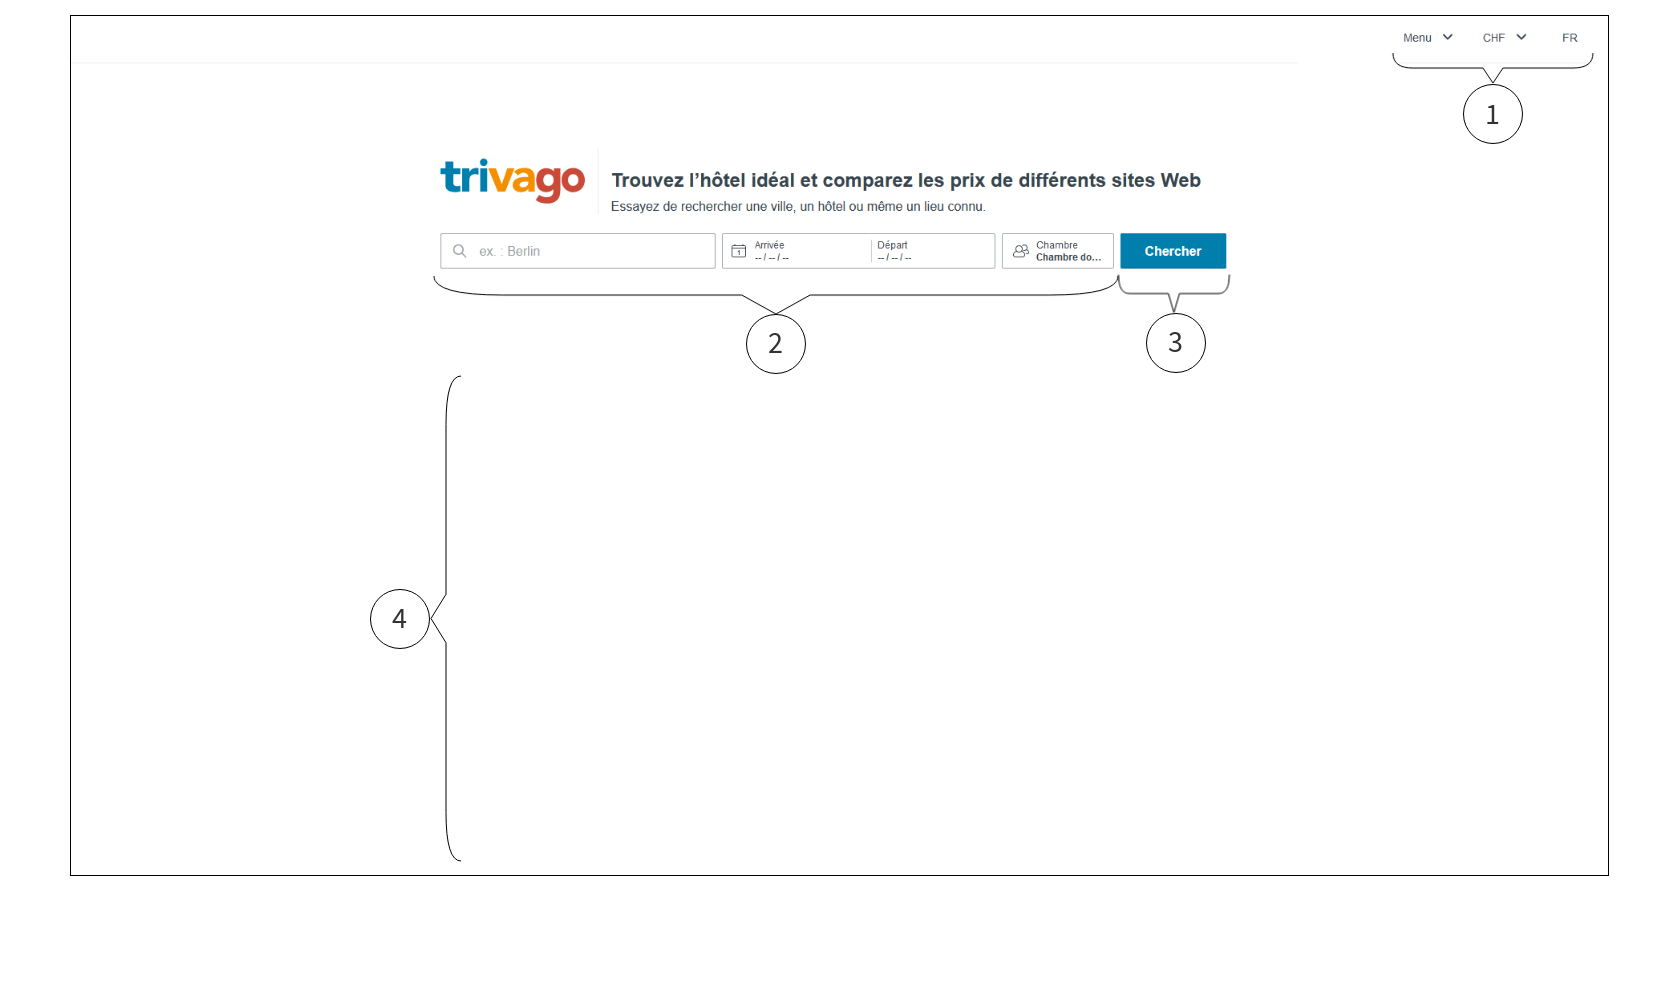
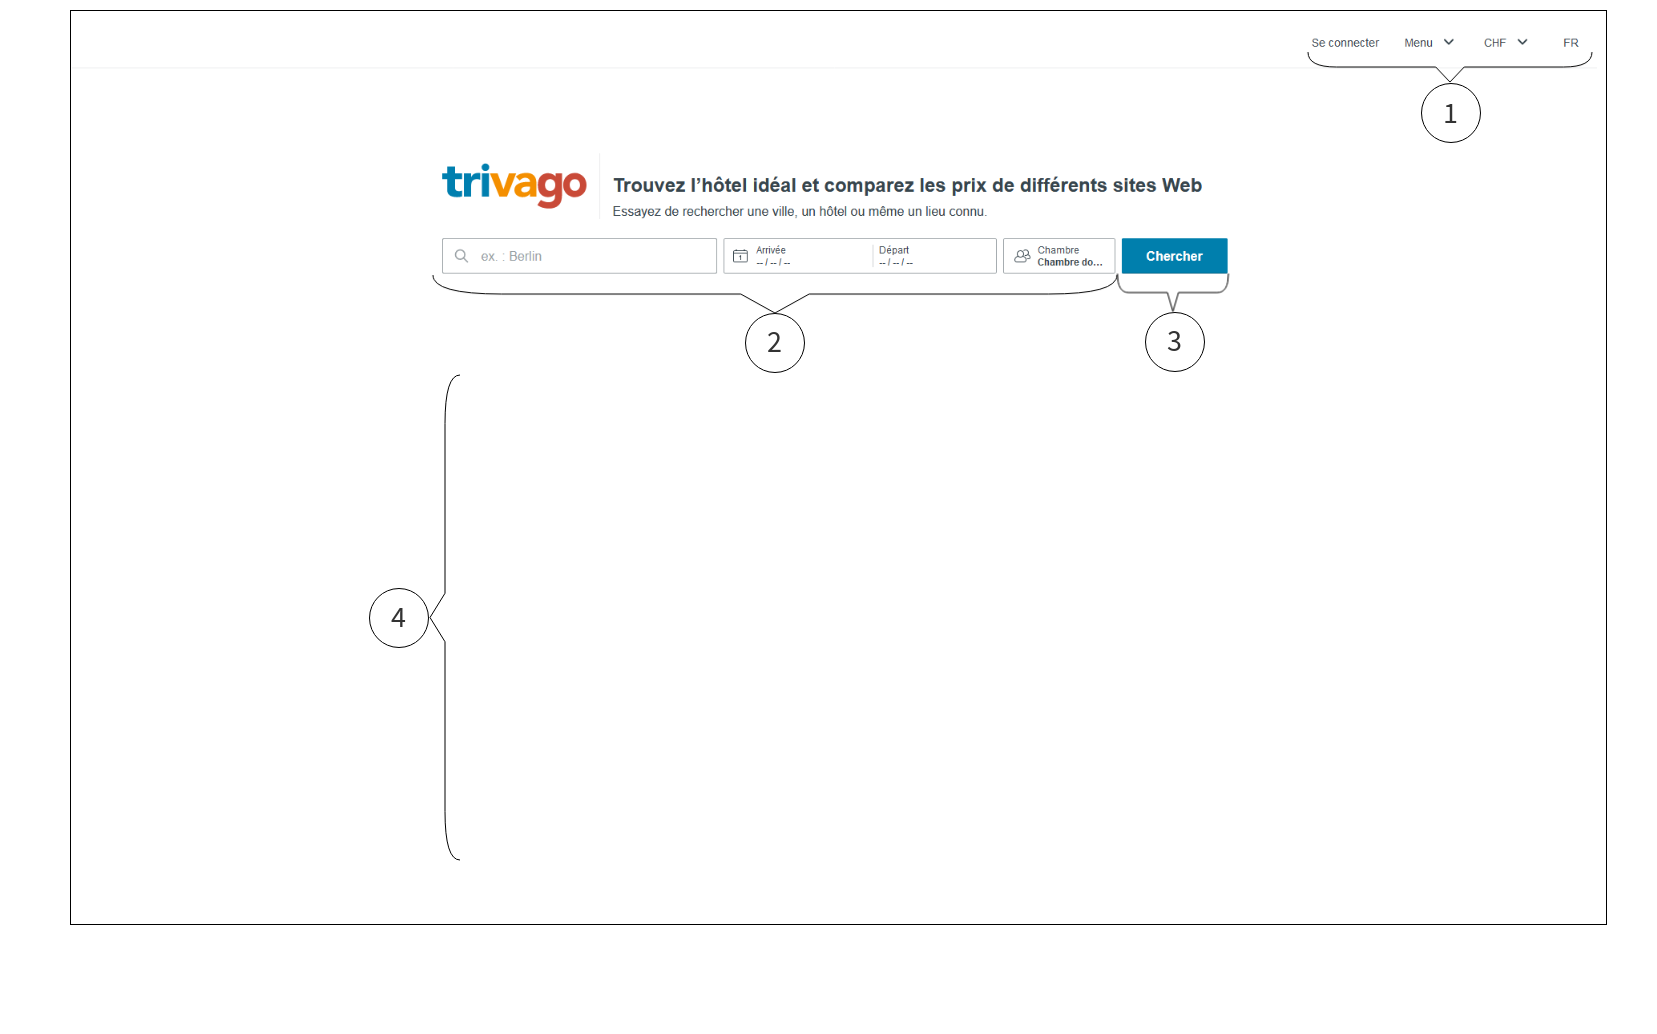
add responsive

Changed region(s): [[0.2462, 0.1523, 0.7387, 0.3655], [0.8002, 0.0305, 0.9541, 0.1523], [0.2154, 0.5787, 0.277, 0.6396]]

diff --git a/docs/analyse/dom/analyse_dom.md b/docs/analyse/dom/analyse_dom.md
@@ -15,10 +15,10 @@ Elément regoupant tout le contenu
                 Le logo et le texte de description du site (en rouge)
             Un conteneur des contrôles (en vert)
                 Des contrôles pour filtrer des hôtels (en bleu)
-        Zone de résultat (en vert)
+        Zone des recherches précédentes (en vert)
             Texte décrivant le contenu du dessous (en bleu)
-            Conteneur des résultats de la recherche (en bleu)
-                Un résultat des résultats de la recherche ( en rouge)
+            Conteneur des recherches précédentes (en bleu)
+                Une des recherches précédentes ( en rouge)
 ```
 
 ## Element de la page
@@ -39,4 +39,14 @@ Elément regoupant tout le contenu
 
 3 Le bouton pour effectuer une recherche
 
-4 Le résultat de la recherche va s'afficher ici, uniquement des images et du texte
+4 Recherches précédantes, uniquement des images et du texte
+
+## Responsive
+1er changement lorsque la fenêtre arrive à une largeur de 962px  
+![alt text](responsive1.png)
+
+
+
+2ème changement lorsque la fenêtre arrive à une largeur de 962px  
+![alt text](responsive2.png)
+
